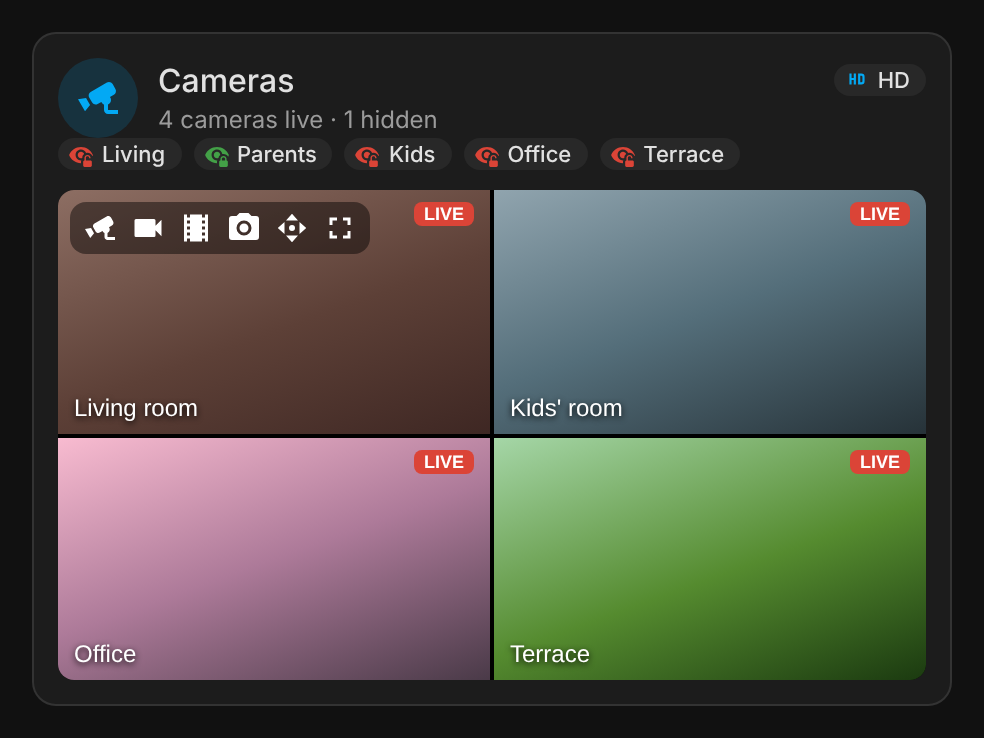
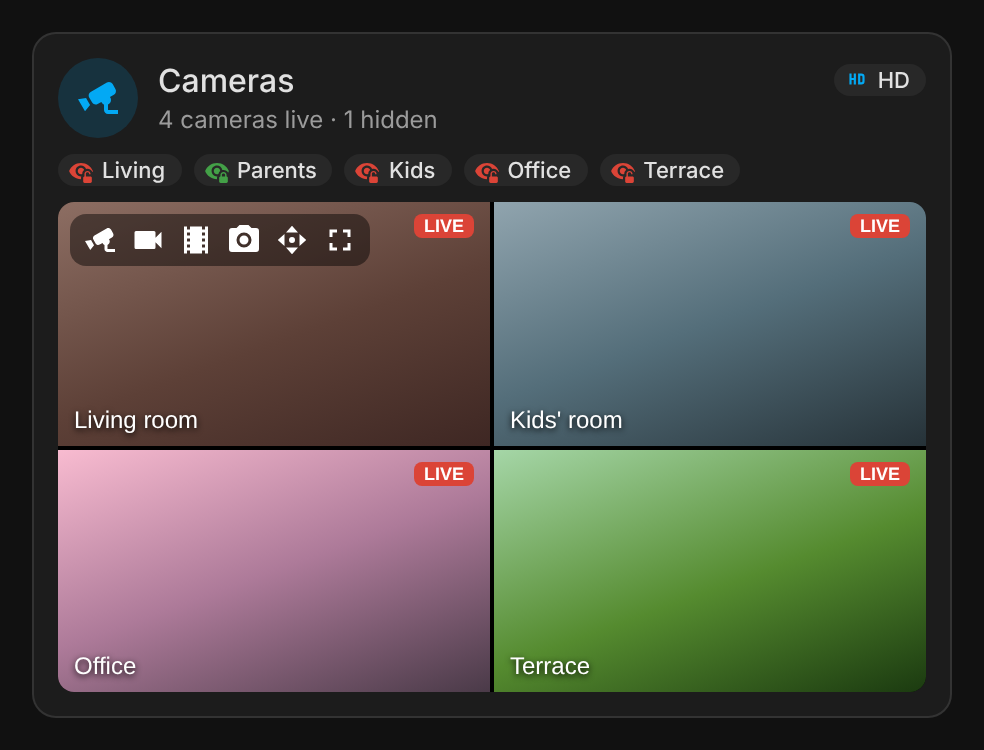
Header spacing like the other cards, shared tint on the show / hide button
Claude-Session: https://claude.ai/code/session_01NW8HrjdUvTF3zwsaKKxQNw

diff --git a/src/home-camera-card.js b/src/home-camera-card.js
@@ -484,7 +484,8 @@ class HomeCameraCard extends HTMLElement {
     return (
       '<style>' +
       ':host { display: block; --hc-on: var(--success-color, #43a047); --hc-off: var(--error-color, #db4437); }' +
-      'ha-card { box-sizing: border-box; padding: 12px; display: flex; flex-direction: column; gap: 10px; overflow: hidden; }' +
+      'ha-card { box-sizing: border-box; padding: 12px; display: flex; flex-direction: column; gap: 8px; overflow: hidden; }' +
+      '.head { display: flex; flex-direction: column; gap: 8px; }' +
       '.header { display: flex; align-items: center; gap: 10px; }' +
       '.hicon { width: 40px; height: 40px; border-radius: 50%; flex: none; display: grid; place-items: center;' +
       ' --hc-c: var(--primary-color, #03a9f4); background: color-mix(in srgb, var(--hc-c) 16%, transparent); color: var(--hc-c); }' +
@@ -498,7 +499,8 @@ class HomeCameraCard extends HTMLElement {
       '.chips.badges, .chips.sub { justify-content: flex-start; }' +
       '.chips.sub { margin-top: 3px; }' +
       '.toggle { width: 36px; height: 36px; border-radius: 50%; flex-shrink: 0; display: flex; align-items: center; justify-content: center; cursor: pointer;' +
-      ' --hc-c: var(--hc-off); background: color-mix(in srgb, var(--hc-c) 15%, transparent); color: var(--hc-c); }' +
+      ' --hc-c: var(--hc-off); background: color-mix(in srgb, var(--hc-c) 16%, transparent); color: var(--hc-c); }' +
+      '.toggle:hover { background: color-mix(in srgb, var(--hc-c) 24%, transparent); }' +
       '.toggle.private { --hc-c: var(--hc-on); }' +
       '.toggle ha-icon { --mdc-icon-size: 22px; }' +
       '.chip { display: inline-flex; align-items: center; gap: 4px; font-size: 11px; font-weight: 500; padding: 1px 8px 1px 5px; border-radius: 12px; cursor: pointer;' +

diff --git a/CHANGELOG.md b/CHANGELOG.md
@@ -4,6 +4,8 @@
 
 ### Changes
 - Header icon badge at 40 px with a 16 % tint, the size shared by the other ha-* cards.
+- The camera badges row and the camera view start 8 px under the header (were 0 px and 10 px), like the other cards.
+- The single camera's show / hide button uses the shared 16 % tint, 24 % on hover.
 
 ### Maintenance
 - Screenshots: 16 px frame on the theme background, shared theme tokens and card border, 460 px card, English everywhere.
